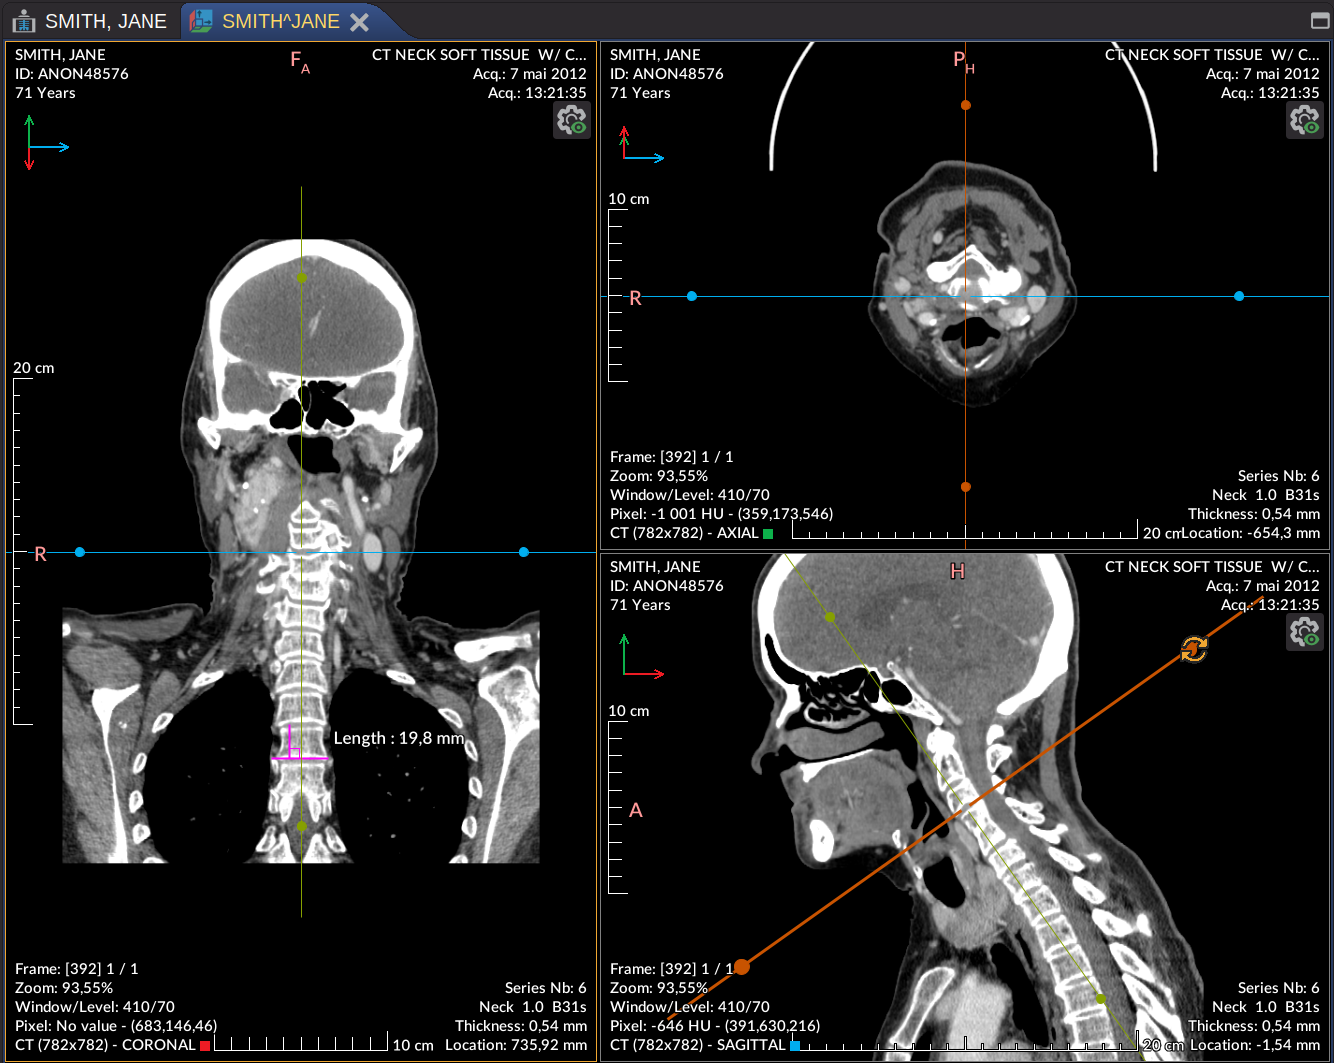
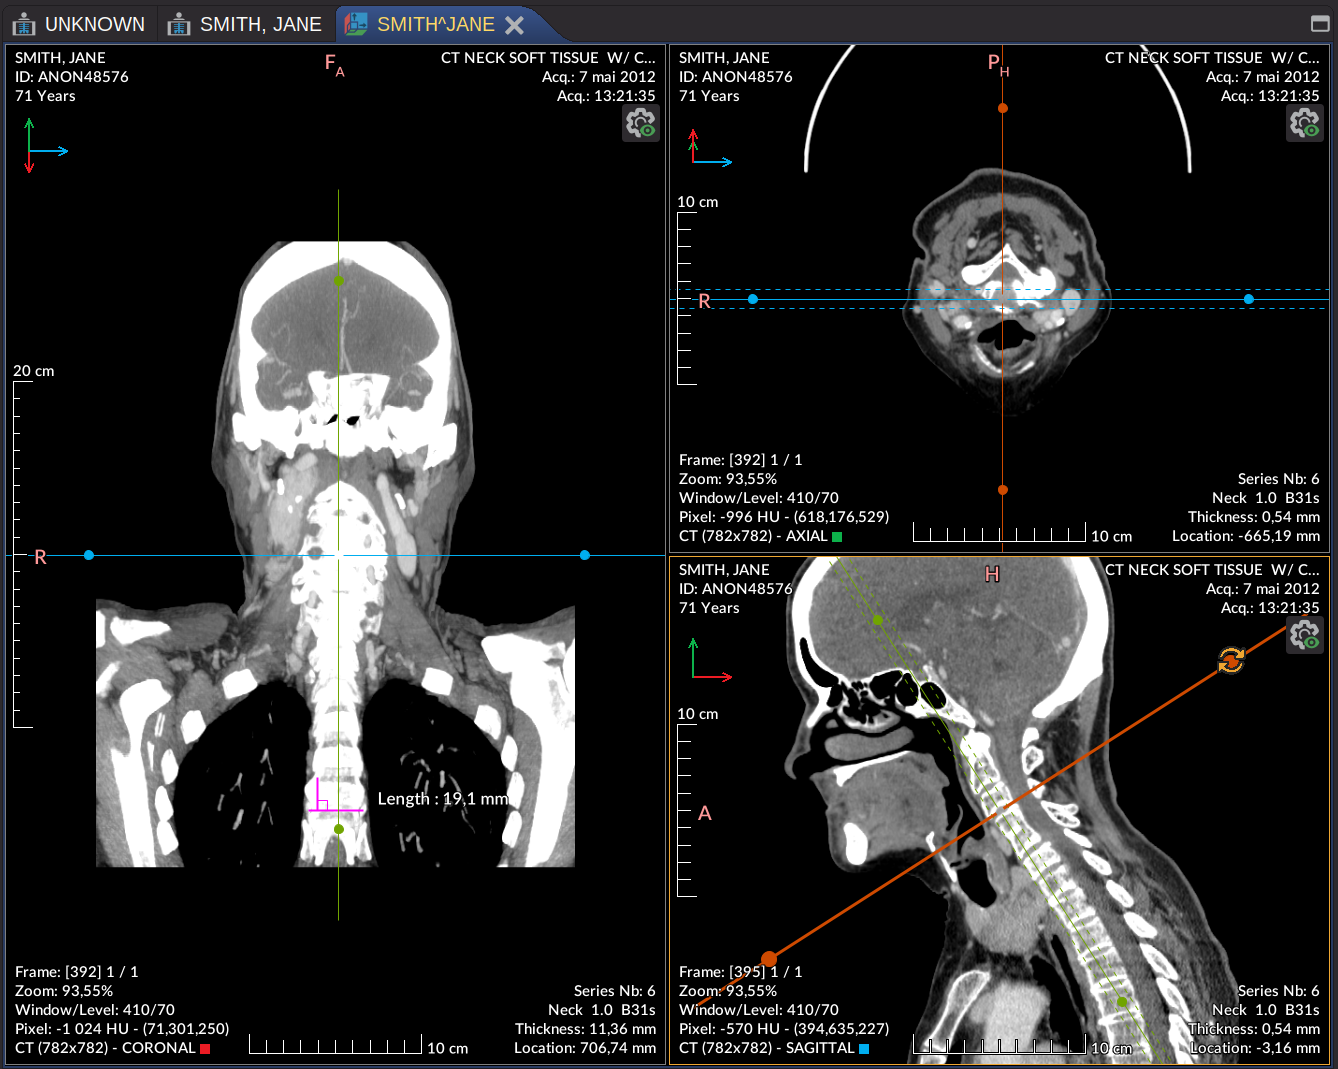
Release 4.6.0

diff --git a/content/basics/shortcuts.en.md b/content/basics/shortcuts.en.md
@@ -81,17 +81,18 @@ Here is a list of the most common keyboard and mouse shortcuts in Weasis. The sh
 ### Selected view in the MPR Viewer
 MPR view inherits the same shortcuts as the 2D viewer, with the following additional shortcuts since {{< badgeC "v4.6.0" >}} :
 
-| Shortcut           | Action                                              |
-|--------------------|-----------------------------------------------------|
-| **Alt + X**        | Center crosshair of the selected view               |
-| **Alt + C**        | Show/Hide the crosshair center of the selected view |
-| **Alt + V**        | Show/Hide the crosshair of the selected view        |
-| **Ctrl + Alt + X** | Center crosshair of all views                       |
-| **Ctrl + Alt + C** | Show/Hide the crosshair center of all views         |
-| **Ctrl + Alt + V** | Show/Hide the crosshair of all views                |
-| **Ctrl + Alt + B** | Change the MIP type (None/Min/Mean/Max)             |
+| Shortcut               | Action                                                |
+|------------------------|-------------------------------------------------------|
+| **Alt + X**            | Center crosshair of the selected view                 |
+| **Alt + C**            | Show/Hide the crosshair center of the selected view   |
+| **Alt + V**            | Show/Hide the crosshair of the selected view          |
+| **Ctrl + Alt + X**     | Center crosshair of all views                         |
+| **Ctrl + Alt + C**     | Show/Hide the crosshair center of all views           |
+| **Ctrl + Alt + V**     | Show/Hide the crosshair of all views                  |
+| **Ctrl + Alt + B**     | Change the MIP type (None/Min/Mean/Max)               |
+| **Alt + mouse scroll** | On selected axis, increase/decrease the MIP thickness |
 
-### DICOM explorer
+### DICOM explorer 
 
 | Shortcut                                                           | Action                                         |
 |--------------------------------------------------------------------|------------------------------------------------|

diff --git a/content/tutorials/mpr.en.md b/content/tutorials/mpr.en.md
@@ -27,7 +27,7 @@ To configure the MPR view, you can access settings by clicking the settings icon
 - **Center**: Center the crosshair in the view.
 - **Show Center of Crosshair**: Show or hide the center point of the crosshair.
 - **Show Crosshair**: Show or hide the crosshair lines. When hidden, the crosshair actions becomes inactive.
-- **MIP Thickness**: Adjust the thickness of the MIP in terms of pixel extension.
+- **MIP Thickness**: Modify the thickness of the MIP in terms of pixel extension. You can also adjust it using _Alt + mouse scroll_ on an axis. Please note that the change in thickness may be delayed, as the MIP is computed in the background and doesn’t utilize 3D acceleration.
 - **MIP Type**:
   - **None**: No MIP applied.
   - **Min**: Minimum intensity projection.
